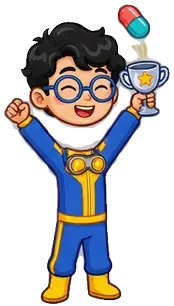
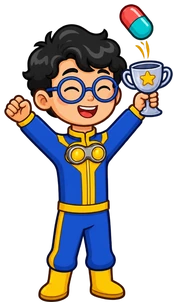
Fix severed character sprite c1_win in Game 8

Changed region(s): [[0.0, 0.0, 0.977, 1.0]]

diff --git a/GoiTenVuiNhon/sw.js b/GoiTenVuiNhon/sw.js
@@ -1,6 +1,6 @@
 const CACHE_NAME = 'name-picker-vol1-shell-0a80f13f8d41b478a3a5';
 const ASSET_CACHE_NAME = 'name-picker-vol1-assets-4fa37cc15ad23c37e7f6';
-const GAME_CACHES = {"g1":"name-picker-vol1-g1-683b0742eb3161fe9e47","g2":"name-picker-vol1-g2-540c80355ea7daa7916c","g3":"name-picker-vol1-g3-bd9803851226e88a3229","g4":"name-picker-vol1-g4-5ef3306b93e26acd9140","g5":"name-picker-vol1-g5-22ed0fb513ba276a0400","g6":"name-picker-vol1-g6-7cc63709bf5034757a68","g7":"name-picker-vol1-g7-60e32ae87cd061baa6a5","g8":"name-picker-vol1-g8-2b14ee3e43ceee857b0e","g9":"name-picker-vol1-g9-40bfe270b8d1df911b1f","g10":"name-picker-vol1-g10-bd247c5c986c27b8fcf4","g11":"name-picker-vol1-g11-e62de3d5f3baf3f943c2","g12":"name-picker-vol1-g12-e07db54d1f14d61977d3","g13":"name-picker-vol1-g13-616f7984f750cd99c86b","g14":"name-picker-vol1-g14-bc1e810951e27e010fe4","g15":"name-picker-vol1-g15-d43c366c9b5d82c00aa9","g16":"name-picker-vol1-g16-1a21497f2c64e509bd0b","g17":"name-picker-vol1-g17-5cef7343fc851ab9dbad","g18":"name-picker-vol1-g18-5ef2a2efc9476043cf45","g19":"name-picker-vol1-g19-b466aaf632b0e15a6d18","g20":"name-picker-vol1-g20-4eab17c919dbf119a204","g21":"name-picker-vol1-g21-62a0764b0029d1c83732","g22":"name-picker-vol1-g22-45a2d25811fc618208ad","g23":"name-picker-vol1-g23-cd97c88037fb8ca127af","g24":"name-picker-vol1-g24-9ca36f8cf412fbb97349","g25":"name-picker-vol1-g25-9c562c63e7ed799cc22c","g26":"name-picker-vol1-g26-15b065880a5983a87d7e","g27":"name-picker-vol1-g27-8467c341d684119f0bfc","g28":"name-picker-vol1-g28-0f0018e2ecaa883ca4ff","g29":"name-picker-vol1-g29-15dd011e92d4f426d04f","g30":"name-picker-vol1-g30-c6ca1e422e65494f1841"};
+const GAME_CACHES = {"g1":"name-picker-vol1-g1-683b0742eb3161fe9e47","g2":"name-picker-vol1-g2-540c80355ea7daa7916c","g3":"name-picker-vol1-g3-bd9803851226e88a3229","g4":"name-picker-vol1-g4-5ef3306b93e26acd9140","g5":"name-picker-vol1-g5-22ed0fb513ba276a0400","g6":"name-picker-vol1-g6-7cc63709bf5034757a68","g7":"name-picker-vol1-g7-60e32ae87cd061baa6a5","g8":"name-picker-vol1-g8-081d0dc73e4a949122e2","g9":"name-picker-vol1-g9-40bfe270b8d1df911b1f","g10":"name-picker-vol1-g10-bd247c5c986c27b8fcf4","g11":"name-picker-vol1-g11-e62de3d5f3baf3f943c2","g12":"name-picker-vol1-g12-e07db54d1f14d61977d3","g13":"name-picker-vol1-g13-616f7984f750cd99c86b","g14":"name-picker-vol1-g14-bc1e810951e27e010fe4","g15":"name-picker-vol1-g15-d43c366c9b5d82c00aa9","g16":"name-picker-vol1-g16-1a21497f2c64e509bd0b","g17":"name-picker-vol1-g17-5cef7343fc851ab9dbad","g18":"name-picker-vol1-g18-5ef2a2efc9476043cf45","g19":"name-picker-vol1-g19-b466aaf632b0e15a6d18","g20":"name-picker-vol1-g20-4eab17c919dbf119a204","g21":"name-picker-vol1-g21-62a0764b0029d1c83732","g22":"name-picker-vol1-g22-45a2d25811fc618208ad","g23":"name-picker-vol1-g23-cd97c88037fb8ca127af","g24":"name-picker-vol1-g24-9ca36f8cf412fbb97349","g25":"name-picker-vol1-g25-9c562c63e7ed799cc22c","g26":"name-picker-vol1-g26-15b065880a5983a87d7e","g27":"name-picker-vol1-g27-8467c341d684119f0bfc","g28":"name-picker-vol1-g28-0f0018e2ecaa883ca4ff","g29":"name-picker-vol1-g29-15dd011e92d4f426d04f","g30":"name-picker-vol1-g30-c6ca1e422e65494f1841"};
 function assetCacheName(url) {
   const id = /\/assets\/(g\d+|duck-race)\//.exec(url.pathname)?.[1]?.replace('duck-race', 'g1') || /\/assets\/bgm\/(g\d+)\.mp3$/.exec(url.pathname)?.[1];
   return GAME_CACHES[id] || ASSET_CACHE_NAME;
